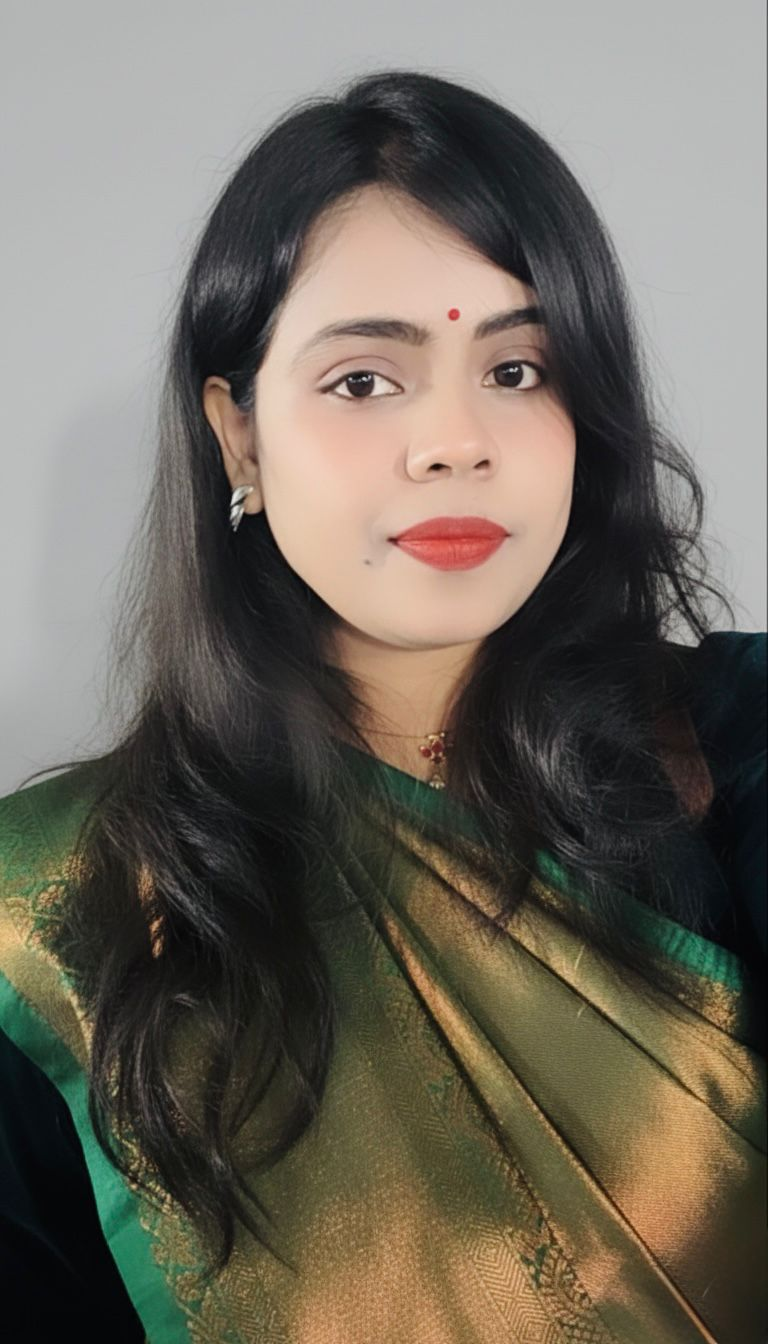
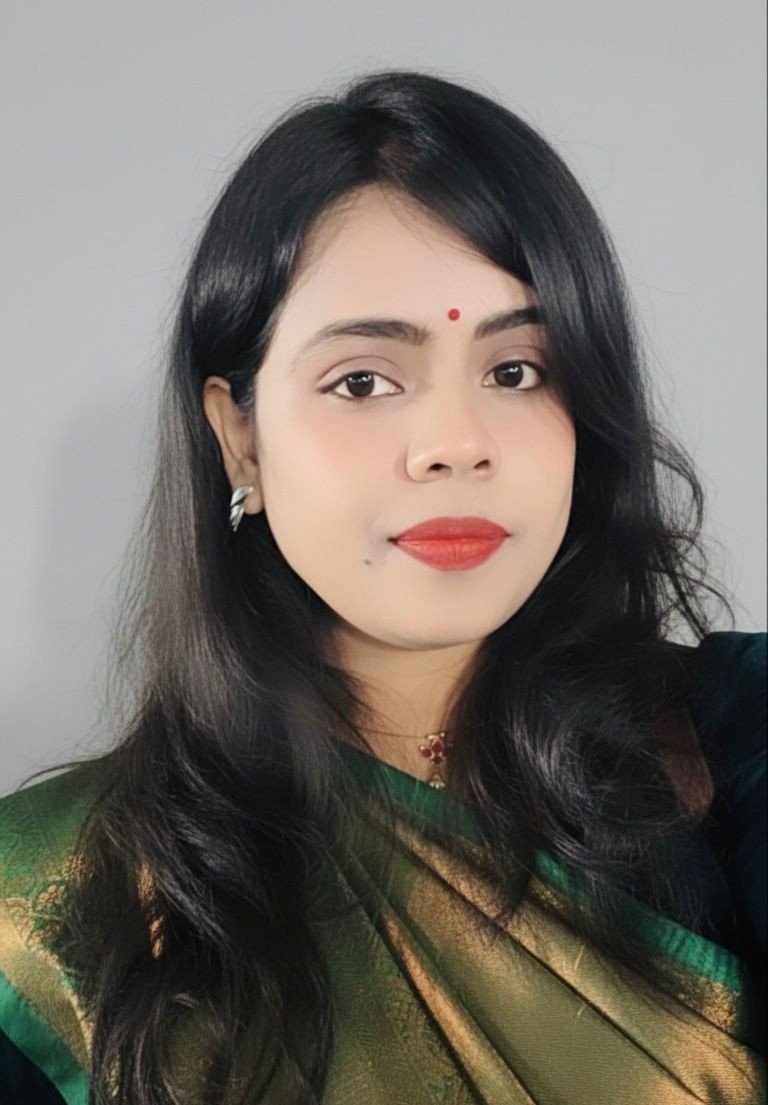
updated speakers

diff --git a/speakers.html b/speakers.html
@@ -180,8 +180,8 @@
                 {
                     "name": "Sindhuja Rajamaran",
                     "role": "Co-founder, OO Studio INC",
-                    "description": "",
-                    "image": "img/speakers_2026/"
+                    "description": "From stepping into the corporate world at just 13 years old to navigating the fast-paced startup ecosystem, my journey has been anything but conventional. As a young learning CEO, I was thrown into real-world challenges early on, discovering my strengths through every failure, adaptation, and success. Those formative years shaped my ability to think strategically, solve creatively, and build with resilience. With 12+ years of experience, I’ve worked across multiple industries, from branding and marketing to product innovation and tech-driven solutions. My time as Brand strategist allowed me to collaborate with brands like Sheraton Hotels, Vespa, Park Hotels, and AI SaaS ventures, blending market insight, adaptability, and forward-thinking leadership into everything I do. Currently, I’m focused on career development and education technology a field I’m deeply passionate about. My startup aims to empower students with AI-driven guidance, helping them navigate their future with clarity. As a co-founder of OO Studio AI, I dove into film post-production pipeline improvements, taking a traditional industry and turning it into a scalable SaaS model. This journey of blending technology with creativity has been filled with highs and lows, but it has only reinforced my drive to build impactful, scalable businesses. From marketing and brand strategy to product development and startup growth, my experience spans multiple verticals, all connected by a single goal—solving problems through innovation. My story isn’t just about building businesses; it’s about constantly evolving, learning, and turning ideas into reality.",
+                    "image": "img/speakers_2026/Sindhuja Rajamaran.jpeg"
                 },
                 {
                     "name": "Hemant Thakkar",
